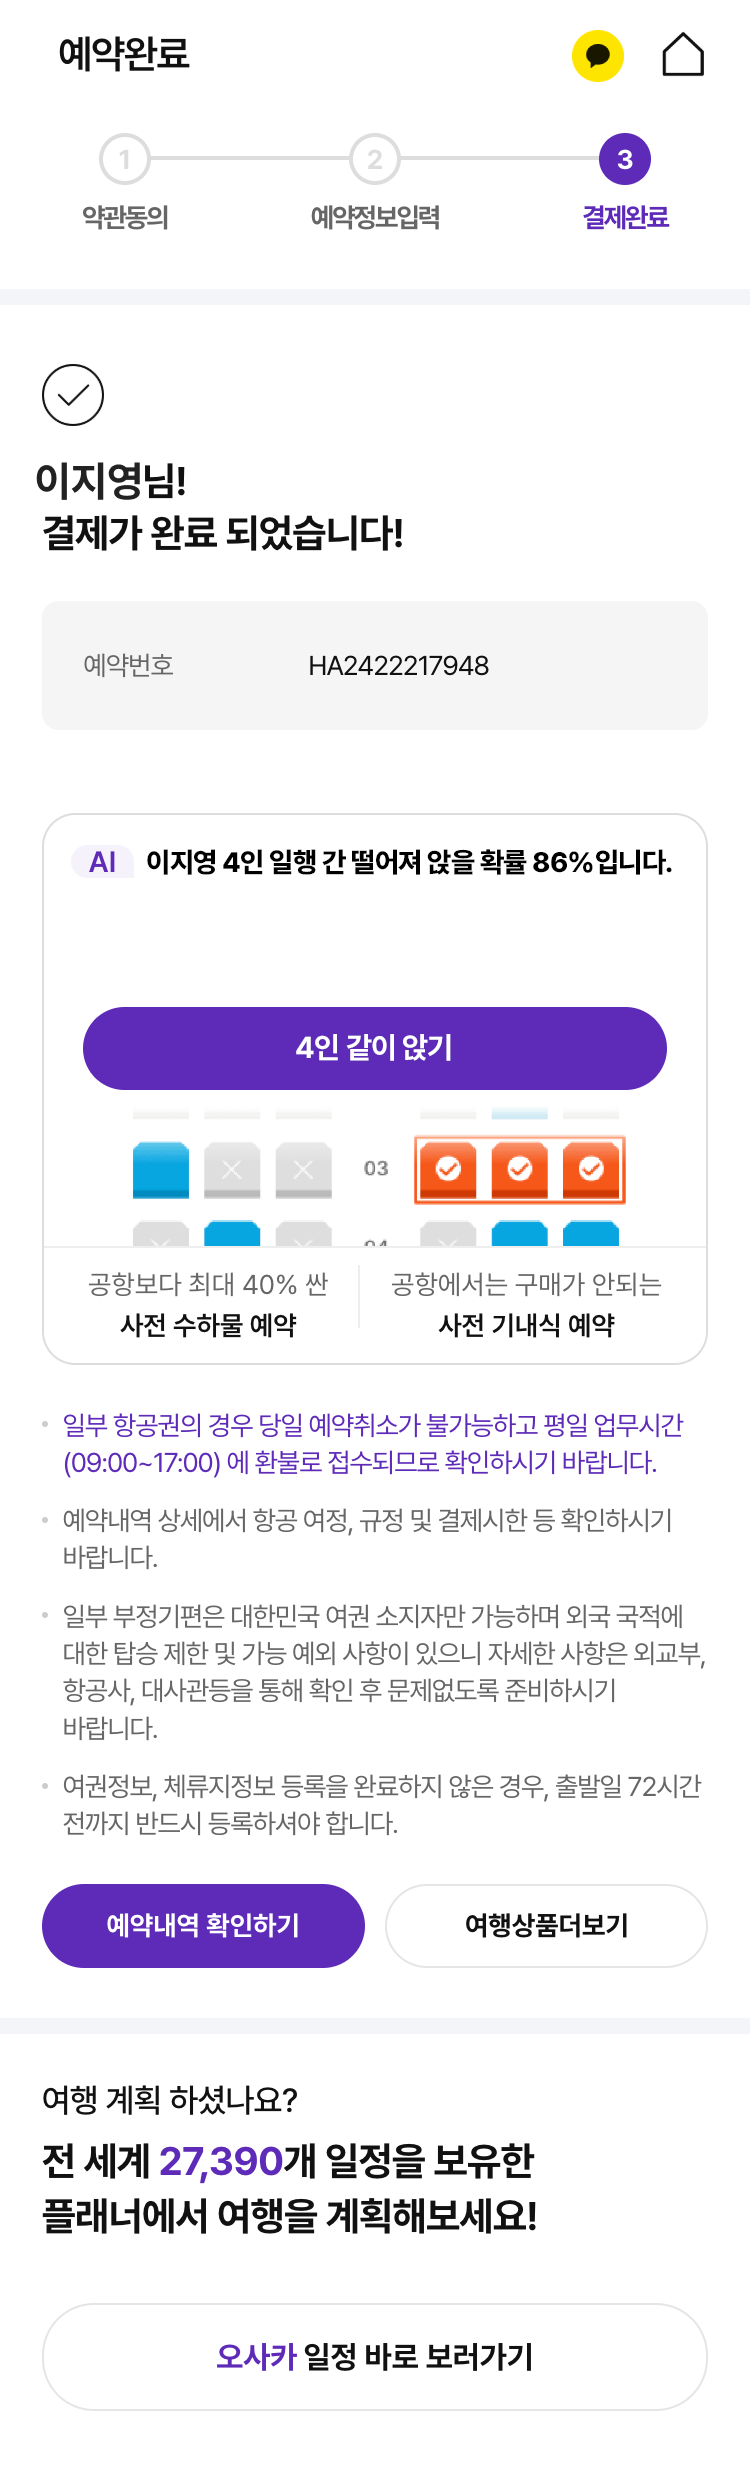
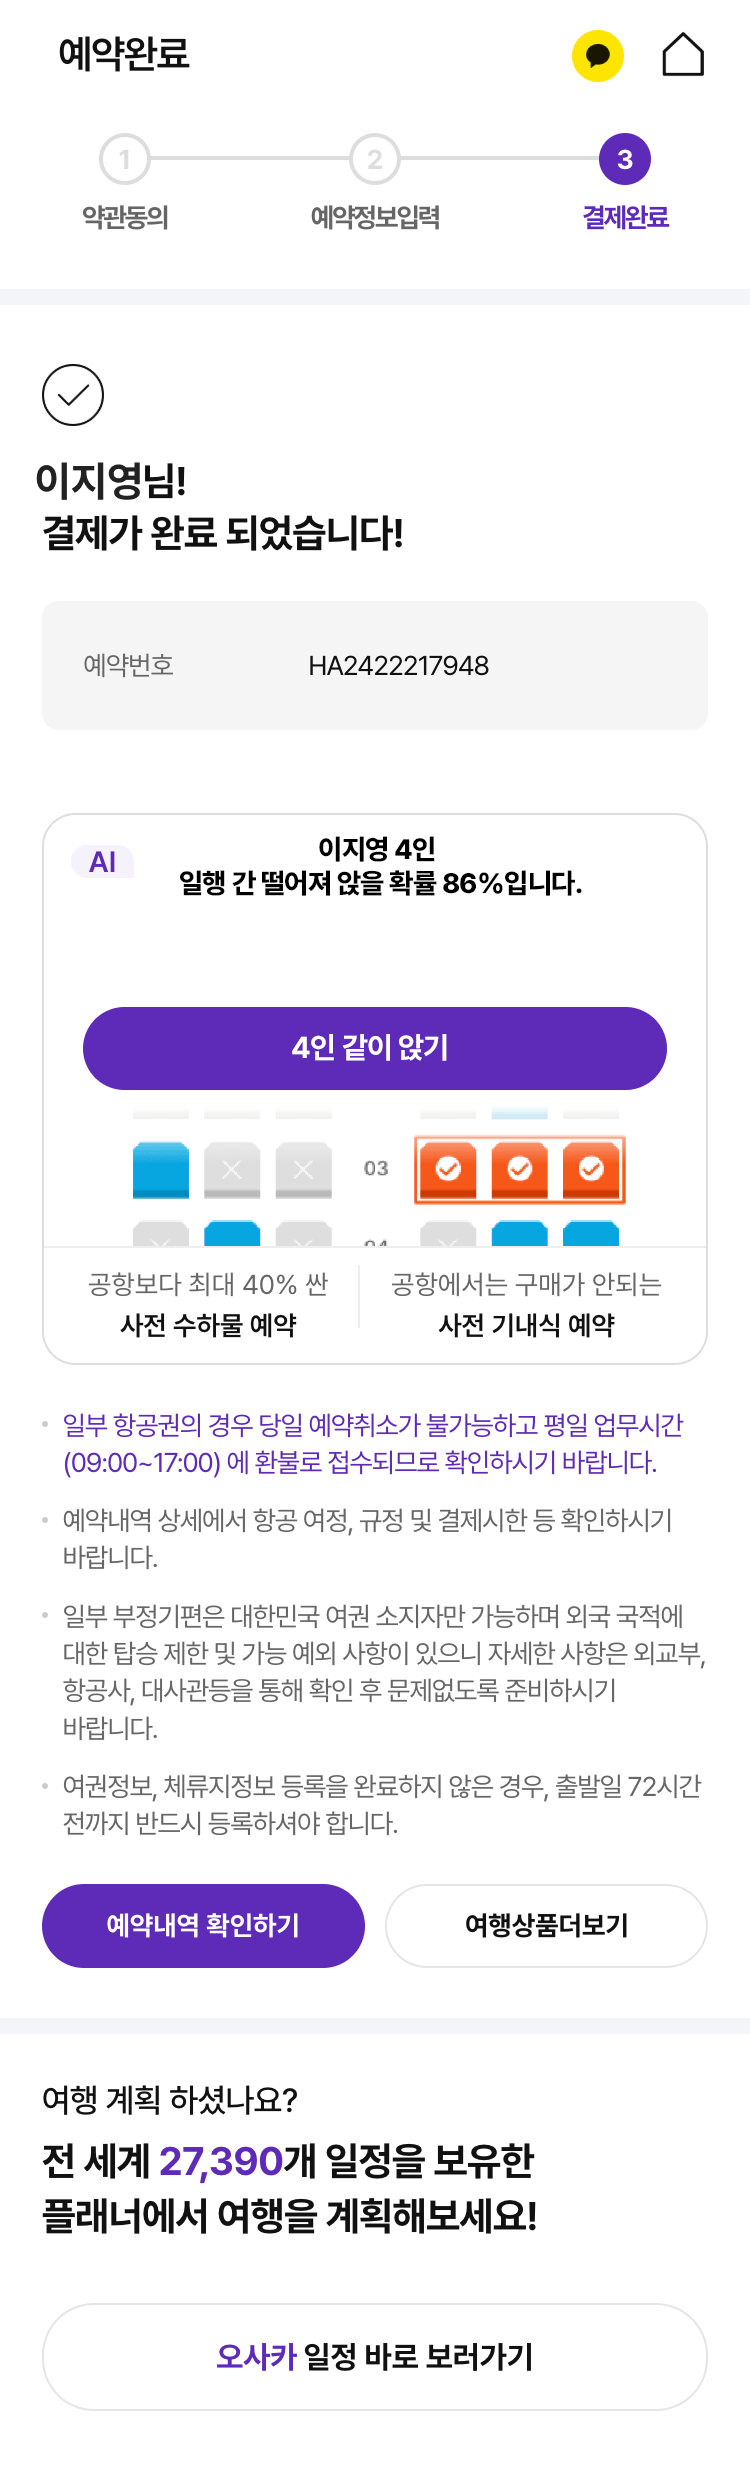
260224_demo_hana_v3

Changed region(s): [[0.2147, 0.3424, 0.8893, 0.3735], [0.3987, 0.4046, 0.6133, 0.4357]]

diff --git a/demo/demo/index_hana11.html b/demo/demo/index_hana11.html
@@ -14,18 +14,38 @@
 				window.location.href	= "index_hana13.html?mode="+mode;
 			}
 		</script>
+		<script type="text/javascript">
+			function moveUrl2() {
+				var urlSearch	= new URLSearchParams(location.search);
+				var mode		= urlSearch.get('mode');
+				switch (mode) {					
+					case "stg"	:
+						window.location.href	= "https://stg-demo-mo.ags-aws.com/demo/bsp/hanatour/login/aces/4";
+						break;
+					case "dev"	:
+						window.location.href	= "https://dev-demo-mo.ags-aws.com/demo/bsp/hanatour/login/aces/4";
+						break;
+					case "prod"	:
+						window.location.href	= "https://prod-demo.m.ags-aws.com/demo/bsp/hanatour/login/aces/4";
+						break;
+					default	:
+						window.location.href	= "https://stg-demo-mo.ags-aws.com/demo/bsp/hanatour/login/aces/4";
+						
+				}
+			}
+		</script>
 	</head>
 	<body>
 		<div class="allwin_demo">			
 			<a href="javascript:history.back();" class="btn_back">뒤로가기</a>
-			
+			<a href="javascript:;" onclick="moveUrl2();" class="btn_back" style="width: 100%; height: 300px; top: 40%;z-index: 1;" >뒤로가기</a>
 			<div class="st1_img_jbtn">				
 				<a href="javascript:;" onclick="moveUrl();"><img src="./resource/img/hana_11_00.png"></a>			
 			</div>
 			<div class="alpha" style="margin-bottom: 50px;">
 				<a href="javascript:;" onclick="moveUrl();">
 					<div class="adhana_gif1" style="top: 43.3%;">
-					<img id="img" src="./resource/img/multi_57.gif">
+					<img id="img" src="./resource/img/multi_86.gif">
 				</div>				
 				<img id="img" src="./resource/img/hana_11.png"></a>
 			</div>

diff --git a/demo/demo/index_hana18.html b/demo/demo/index_hana18.html
@@ -40,7 +40,7 @@
 			<div class="alpha">
 				<a href="javascript:;" onclick="moveUrl();">					
 				<div class="adhana_gif1" style="top: 24.2%;">
-					<img id="img" src="./resource/img/multi_57.gif">
+					<img id="img" src="./resource/img/multi_86.gif">
 				</div>			
 				<img id="img" src="./resource/img/hana_18.png" ></a>
 			</div>
